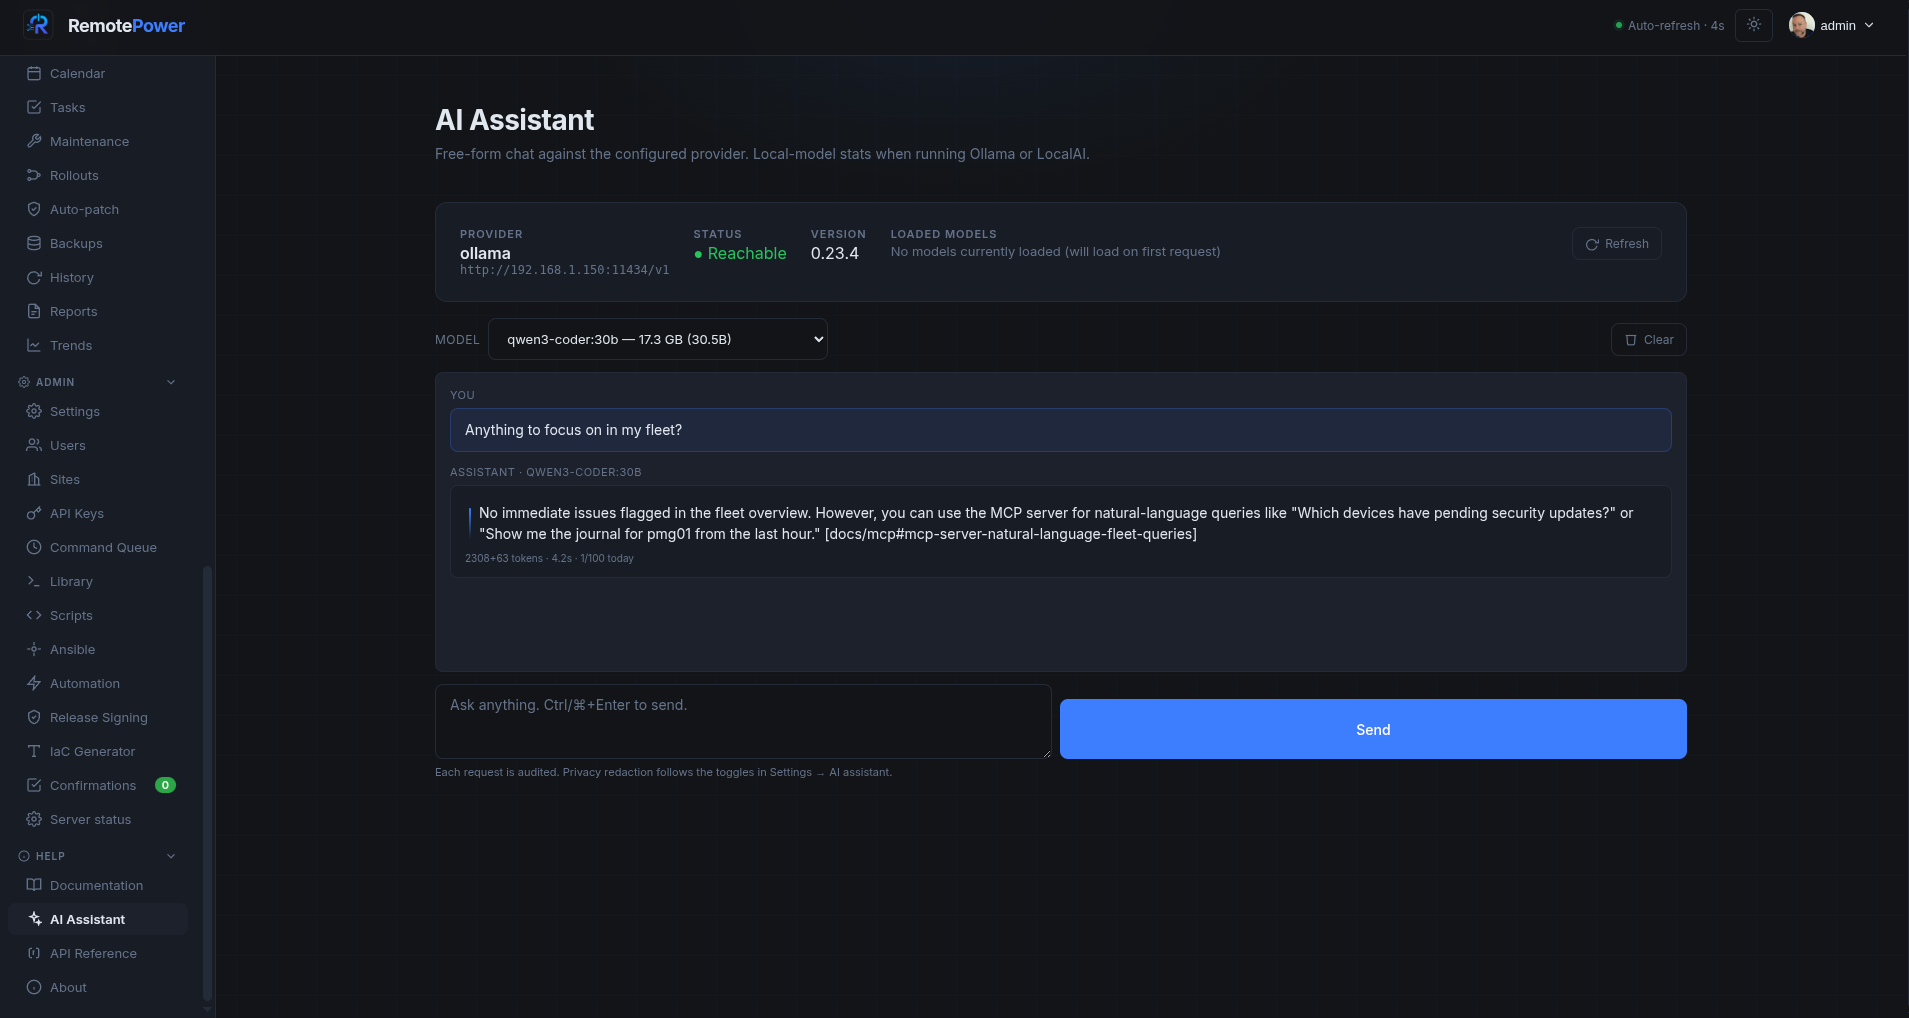
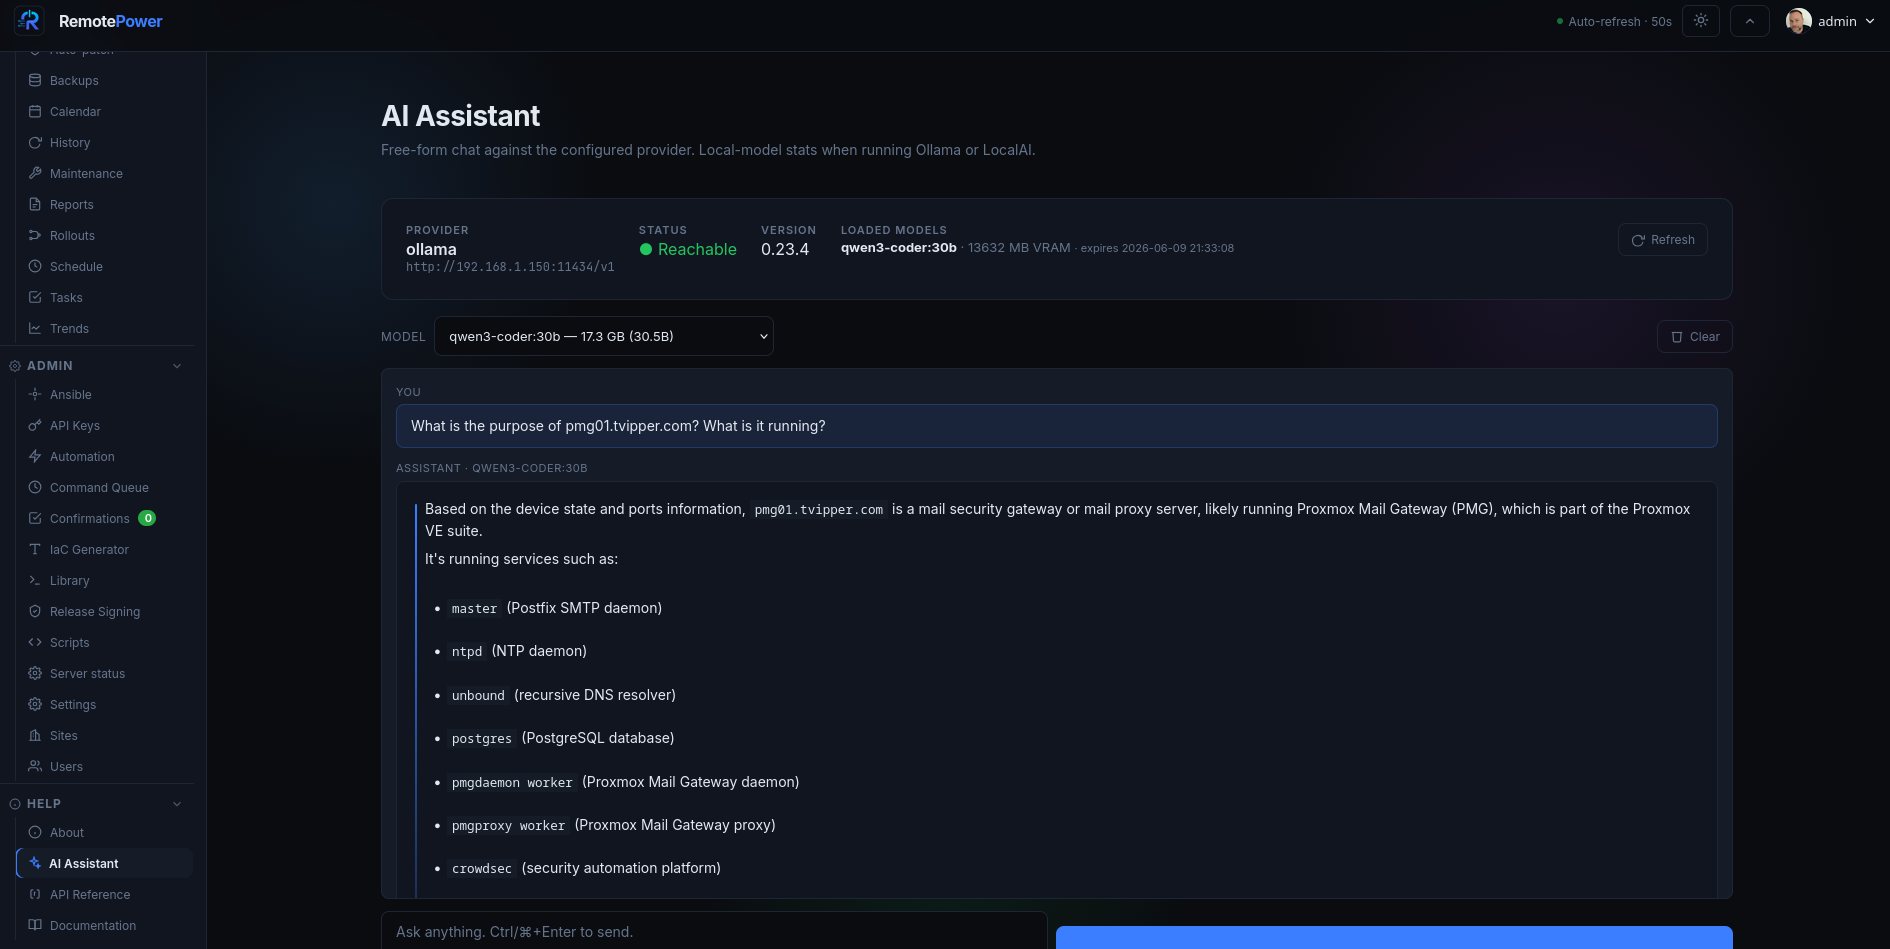
fix(v4.1.0): bind agent signals into the UI; rename codename → VisualMatters
VisualMatters (was VisibilityMatters) — finalize the bind-it-together release.

- Persist proc_names to safe_si: the server-side 'process' custom check read
  si['proc_names'] but the heartbeat sanitizer never stored it, so that check
  silently always returned 'unknown'. Now stored (deduped, bounded to 400).
- Persist last_oom_proc so the UI can show WHICH process was OOM-killed (was
  only in the event payload).
- Device drawer now surfaces the signals the Checks page used but the drawer
  never showed: FD usage, conntrack, clock sync, gateway reachability, mail
  queue, last OOM (with process); mounts table gains an Inode% column and a
  read-only (RO) badge — a silently remounted-RO fs is a data-loss outage.
- Wire the "frequently restarting hosts" table sort (tableCtl.wireSortOnly +
  sortRows) — it had data-col headers but no handler.
- Rename codename VisibilityMatters → VisualMatters across docs/in-app/tests.

Tests: TestSysinfoBinding (proc_names persisted+deduped, last_oom_proc) via
the real heartbeat path.

diff --git a/server/html/static/js/app.js b/server/html/static/js/app.js
@@ -11673,6 +11673,7 @@ async function loadDiskHealth() {
   const summary = document.getElementById('disk-health-summary');
   if (!tbody) return;
   tableCtl.wireSortOnly('disk-health-thead', 'diskhealth', () => _renderDiskHealth());
+  tableCtl.wireSortOnly('unstable-thead', 'unstablehosts', () => _renderUnstableHosts());
   tbody.innerHTML = '<tr><td colspan="6" class="hint">Loading…</td></tr>';
   try {
     _diskHealthResp = await api('GET', '/fleet/disk-health');
@@ -11692,7 +11693,12 @@ function _renderUnstableHosts() {
     tbody.innerHTML = '<tr><td colspan="3" class="c-green ta-center">No hosts restarting unusually often.</td></tr>';
     return;
   }
-  tbody.innerHTML = rows.map(r => {
+  const sorted = tableCtl.sortRows('unstablehosts', rows, r => ({
+    device: r.device,
+    restarts: r.restarts,
+    reason: r.last_boot_reason || '',
+  }));
+  tbody.innerHTML = sorted.map(r => {
     const reason = r.last_boot_reason
       ? `${escHtml(r.last_boot_reason)}${r.last_boot_reason_at ? ` <span class="hint">· ${escHtml(new Date(r.last_boot_reason_at * 1000).toLocaleString())}</span>` : ''}`
       : '<span class="hint">—</span>';
@@ -16448,6 +16454,17 @@ async function _loadAuditSection(key) {
           ['Boot reason', data?.last_boot_reason || null],
           // v3.8.0: who is logged in right now (active login sessions)
           ['Logged in', (si.logged_in||[]).length ? si.logged_in.join(', ') : null],
+          // v4.1.0 "VisualMatters": bind the remaining agent signals the Checks
+          // page already used but the drawer never showed — at-a-glance per host.
+          ['FD usage',  si.fd_percent != null ? Number(si.fd_percent).toFixed(0) + '%' : null],
+          ['Conntrack', si.conntrack_percent != null ? Number(si.conntrack_percent).toFixed(0) + '%' : null],
+          ['Clock',     si.clock ? (si.clock.synced === false ? 'NOT synced' : 'synced')
+                          + (si.clock.offset_ms != null ? ` (${si.clock.offset_ms}ms)` : '') : null],
+          ['Gateway',   si.gateway ? (si.gateway.reachable === false ? 'unreachable' : 'reachable')
+                          + (si.gateway.ip ? ` · ${si.gateway.ip}` : '') : null],
+          ['Mail queue', si.mailq != null ? `${si.mailq} queued` : null],
+          ['Last OOM',  si.last_oom_ts ? new Date(si.last_oom_ts*1000).toLocaleString()
+                          + (si.last_oom_proc ? ` (${si.last_oom_proc})` : '') : null],
         ];
         h += `<div class="sysinfo-row isl-610">` +
           pills.filter(([,v])=>v!=null).map(([l,v])=>
@@ -16489,23 +16506,28 @@ async function _loadAuditSection(key) {
           // v3.13.0: network shares (NFS/SMB/CIFS) get a badge + their server,
           // and a stalled share (no usable usage) shows "stalled" not "null%".
           h += `<div class="scrollable-table-wrap audit-scroll"><table class="isl-627">
-            <thead><tr class="c-muted"><th class="isl-628">Mount</th><th>FS</th><th>Used</th><th>Total</th><th>%</th></tr></thead>
+            <thead><tr class="c-muted"><th class="isl-628">Mount</th><th>FS</th><th>Used</th><th>Total</th><th>%</th><th class="ta-center">Inode%</th></tr></thead>
             <tbody>` + si.mounts.map(m=>{
               const netBadge = m.network ? ` <span class="pill" data-color="var(--accent)">net</span>` : '';
+              // v4.1.0: a silently remounted read-only filesystem is a data-loss
+              // outage — surface it as a badge (the agent already reports `ro`).
+              const roBadge = m.ro ? ` <span class="pill" data-color="var(--red)">RO</span>` : '';
               // Show the share server inline (not just a tooltip) so an SMB/NFS
               // mount is unmistakable: e.g. "cifs · //192.168.2.100/data".
               const fsCell = escHtml(m.fstype || '—') + (m.network && m.server ? ` · <code>${escHtml(m.server)}</code>` : '');
               if (m.stalled) {
-                return `<tr><td class="isl-629"><code>${escHtml(m.path)}</code>${netBadge}</td>
+                return `<tr><td class="isl-629"><code>${escHtml(m.path)}</code>${netBadge}${roBadge}</td>
                    <td class="fs-11 c-muted">${fsCell}</td>
-                   <td class="ta-center c-muted" colspan="3"><span class="pill" data-color="var(--red)">stalled</span></td></tr>`;
+                   <td class="ta-center c-muted" colspan="4"><span class="pill" data-color="var(--red)">stalled</span></td></tr>`;
               }
               const pct = (m.percent != null) ? m.percent : null;
-              return `<tr><td class="isl-629"><code>${escHtml(m.path)}</code>${netBadge}</td>
+              const ino = (m.inode_percent != null) ? m.inode_percent : null;
+              return `<tr><td class="isl-629"><code>${escHtml(m.path)}</code>${netBadge}${roBadge}</td>
                    <td class="fs-11 c-muted">${fsCell}</td>
                    <td class="ta-center">${m.used_gb}GB</td>
                    <td class="ta-center">${m.total_gb}GB</td>
-                   <td class="isl-630 ${pct>85?'c-red': pct>70?'c-amber': ''}">${pct!=null?pct+'%':'—'}</td></tr>`;
+                   <td class="isl-630 ${pct>85?'c-red': pct>70?'c-amber': ''}">${pct!=null?pct+'%':'—'}</td>
+                   <td class="ta-center ${ino>90?'c-red': ino>80?'c-amber': 'c-muted'}">${ino!=null?ino+'%':'—'}</td></tr>`;
             }).join('') + `</tbody></table></div>`;
         }
         // v3.13.0: per-host storage / RAID health (ZFS / mdadm / btrfs).

diff --git a/docs/Manual.html b/docs/Manual.html
@@ -14,7 +14,7 @@
 
 <div class="note"><strong>What's new in v4.1.x / v4.0.x / v3.13.x / v3.12.x / v3.11.x (older: see <code>CHANGELOG.md</code>):</strong>
 <ul class="manual-changelog-list">
-  <li><strong>v4.1.0 "VisibilityMatters" (per-host Checks, custom checks, more monitors, a composable dashboard &amp; smarter alerts):</strong> Surfaces what the fleet already knows and lets you shape how you see it; no breaking changes. <strong>Per-host Checks (CheckMK-style):</strong> a new <em>Checks</em> page under <em>Monitoring</em> renders every monitored signal on every host as OK / WARN / CRIT / UNKNOWN with output — reachability, CPU/mem/swap load, per-mount disk &amp; inode, file-descriptor and conntrack pressure, failed units, timers, drift, world-exposed ports (now respecting Exposed-page mutes), pending updates, CVEs, SMART/UPS/temperature, clock sync, gateway, OOM kills, mail-queue depth, read-only filesystems, disk-fill ETA and storage/RAID health — sortable, filterable, per-check muteable, with <em>Hide muted</em> and <em>Hide unmonitored</em> on by default (<code>GET /api/checks</code>, <code>/api/devices/&lt;id&gt;/checks</code>, <code>POST /api/checks/toggle</code>). <strong>Custom checks:</strong> define checks assignable to a host, tag, group or the whole fleet — server-evaluated <em>process running / port open / port closed</em>, and host-evaluated <em>file present/absent</em>, <em>job freshness</em> and <em>log error rate</em> (read-only, pushed to the agent and evaluated on-host); your custom monitoring scripts also surface as check rows (<code>/api/checks/custom</code>). <strong>More monitors:</strong> DNS resolution (with an expected-address assertion), ICMP latency + packet-loss thresholds, HTTP status + latency-SLA assertions, a credential-less <em>database-liveness</em> probe (PostgreSQL / MySQL / Redis — it speaks just enough of each wire protocol to confirm the server answers, with no stored password), and tag/group target fan-out for ping/ICMP/TCP. <strong>A dashboard you compose:</strong> the Home dashboard is a resizable grid of widgets chosen from a 65-widget catalog (alphabetical add-dropdown) — resize (S/M/L), reorder, show/hide, reset, align, and share a layout with a teammate via an import/export code, all saved per account; new <em>Upcoming</em> (next calendar/scheduler events), <em>Tickets</em> (open quick-ack + recently acknowledged with who/when) and actionable <em>Alerts</em> (ack / resolve / investigate inline) widgets, and the Ask-AI box is now a toggleable widget. <strong>Smarter alerts:</strong> the inbox stacks open alerts under a per-host header (worst first) with group-level Ack-all / Resolve-all, and folds a host's symptom alerts under its <code>device_offline</code> root cause so a storm reads as one incident (a flat view is one toggle away). <strong>Security &amp; reliability:</strong> a TLS 1.2 floor on every hop (satellite both ways, agent, server outbound); the SSH command builder rejects host/user values beginning with <code>-</code>; the agent's mail-queue probe backs off for an hour on a broken MTA so it can't flood the journal; and the dashboard computes its two heavy widgets only when displayed. Independently scanned with wapiti, nikto, nuclei, bandit and OWASP ZAP — clean. Service-worker cache <code>remotepower-shell-v4.1.0</code>. See <code>docs/v4.1.0.md</code>.</li>
+  <li><strong>v4.1.0 "VisualMatters" (per-host Checks, custom checks, more monitors, a composable dashboard &amp; smarter alerts):</strong> Surfaces what the fleet already knows and lets you shape how you see it; no breaking changes. <strong>Per-host Checks (CheckMK-style):</strong> a new <em>Checks</em> page under <em>Monitoring</em> renders every monitored signal on every host as OK / WARN / CRIT / UNKNOWN with output — reachability, CPU/mem/swap load, per-mount disk &amp; inode, file-descriptor and conntrack pressure, failed units, timers, drift, world-exposed ports (now respecting Exposed-page mutes), pending updates, CVEs, SMART/UPS/temperature, clock sync, gateway, OOM kills, mail-queue depth, read-only filesystems, disk-fill ETA and storage/RAID health — sortable, filterable, per-check muteable, with <em>Hide muted</em> and <em>Hide unmonitored</em> on by default (<code>GET /api/checks</code>, <code>/api/devices/&lt;id&gt;/checks</code>, <code>POST /api/checks/toggle</code>). <strong>Custom checks:</strong> define checks assignable to a host, tag, group or the whole fleet — server-evaluated <em>process running / port open / port closed</em>, and host-evaluated <em>file present/absent</em>, <em>job freshness</em> and <em>log error rate</em> (read-only, pushed to the agent and evaluated on-host); your custom monitoring scripts also surface as check rows (<code>/api/checks/custom</code>). <strong>More monitors:</strong> DNS resolution (with an expected-address assertion), ICMP latency + packet-loss thresholds, HTTP status + latency-SLA assertions, a credential-less <em>database-liveness</em> probe (PostgreSQL / MySQL / Redis — it speaks just enough of each wire protocol to confirm the server answers, with no stored password), and tag/group target fan-out for ping/ICMP/TCP. <strong>A dashboard you compose:</strong> the Home dashboard is a resizable grid of widgets chosen from a 65-widget catalog (alphabetical add-dropdown) — resize (S/M/L), reorder, show/hide, reset, align, and share a layout with a teammate via an import/export code, all saved per account; new <em>Upcoming</em> (next calendar/scheduler events), <em>Tickets</em> (open quick-ack + recently acknowledged with who/when) and actionable <em>Alerts</em> (ack / resolve / investigate inline) widgets, and the Ask-AI box is now a toggleable widget. <strong>Smarter alerts:</strong> the inbox stacks open alerts under a per-host header (worst first) with group-level Ack-all / Resolve-all, and folds a host's symptom alerts under its <code>device_offline</code> root cause so a storm reads as one incident (a flat view is one toggle away). <strong>Security &amp; reliability:</strong> a TLS 1.2 floor on every hop (satellite both ways, agent, server outbound); the SSH command builder rejects host/user values beginning with <code>-</code>; the agent's mail-queue probe backs off for an hour on a broken MTA so it can't flood the journal; and the dashboard computes its two heavy widgets only when displayed. Independently scanned with wapiti, nikto, nuclei, bandit and OWASP ZAP — clean. Service-worker cache <code>remotepower-shell-v4.1.0</code>. See <code>docs/v4.1.0.md</code>.</li>
   <li><strong>v4.0.0 (favorites, stale-image badges &amp; fleet thermals):</strong> Three operator-facing conveniences; no breaking changes, no new dependencies. <strong>Per-account sidebar favorites:</strong> hover any entry in the sidebar's collapsible groups and click the star to pin a copy under the <em>“Main”</em> label (keyboard accessible; works for real pages and the section-jump rows alike). Favorites are stored on the user record — <code>GET /api/me</code> returns them and <code>POST /api/favorites</code> saves them — so they follow you across browsers and devices; browser <code>localStorage</code> is kept only as a fast-first-paint cache and an offline/signed-out fallback. <strong>Per-container stale-image badge:</strong> the device-drawer <em>Containers</em> table shows an <em>update</em> badge when a container's running image differs from the latest registry digest, using the same digest join the fleet <em>Image Updates</em> page makes (a shared <code>_image_stale</code> primitive, so the two never disagree); locally-built and accepted/ignored images are never flagged. <strong>Fleet thermal roll-up (“hottest hosts”):</strong> a new <em>Thermal</em> page (next to Storage) with one row per host showing its hottest sensor — CPU package, chipset, or SMART disk — sorted hottest-first and flagged ≥75&nbsp;°C amber / ≥85&nbsp;°C red, backed by a read-only <code>GET /api/fleet/thermal</code> aggregation over the <code>hardware.json</code> temps the agent already reports (no agent or schema change). <strong>Operator quality-of-life batch:</strong> <em>CVE prioritization</em> joins the CISA Known-Exploited (KEV) catalog and FIRST EPSS scores onto findings (KEV badge, EPSS %, KEV column + KEV-first sort; daily refresh via the SSRF-safe fetcher, graceful CVSS fallback); <em>active session management</em> (<em>My Account → Active sessions</em> lists every signed-in browser/device and revokes any or all-others — <code>GET /api/me/sessions</code>, <code>DELETE /api/me/sessions/&lt;id&gt;</code>, raw token never leaves the server); <em>saved &amp; shareable Devices views</em> (named per-account filter snapshots, shareable by URL <code>#devices?view=</code>); <em>SSD/NVMe endurance</em> (a Wear column with projected end-of-life in the SMART table); <em>GPU monitoring</em> (nvidia-smi / rocm-smi drawer card, GPU temps feeding the Thermal page); <em>local certificate-file inventory</em> (openssl-parsed x509 expiry drawer card); <em>local account audit</em> (passwd/shadow/sudo drawer card, flagged-first, no hashes); and <em>power scheduling</em> (Suspend + Wake-on-LAN actions on the Schedule page). <strong>Visibility &amp; prediction batch:</strong> a <em>Predictive health</em> page predicts disk failure from daily SMART-counter trends (reallocated/pending sectors, SSD wear) with a projected ETA (combined with the reactive SMART verdict) and lists frequently-restarting hosts from the uptime history; a <em>Power</em> page + drawer card from a new agent UPS probe (NUT <code>upsc</code> / apcupsd) showing status/battery/load/runtime/watts, with a client-side cost/kWh energy estimate; an <em>SSH keys</em> audit page surfacing every <code>authorized_keys</code> entry fleet-wide with OpenSSH SHA256 fingerprints, weak-type flags and a reuse count; on-demand <em>container log</em> fetch from the device drawer; <em>global omnisearch</em> (the command palette now also searches open alerts and CVE findings); and a <em>custom report builder</em> (<em>Reports → Custom reports</em>: section picker + JSON/CSV + per-report schedule/recipients, <code>/api/report/definitions</code> and a <code>?sections=</code> filter on <code>/api/report/fleet</code>). <strong>Refinements:</strong> host SBOMs now also list running container images as components (<code>pkg:docker/…</code>); and a fleet <em>drift-enforcement policy</em> by tag/group (apply / correct-on-drift) on the Drift page (<code>/api/drift-policies</code>), with the per-device flag still winning. <strong>Pass A (alerts + metrics):</strong> the posture signals now raise edge-triggered alerts/webhooks — <code>disk_predict_fail</code> (predicted failure with ETA, ~6h cadence), <code>ups_on_battery</code>/<code>ups_on_line</code> (auto-resolving), <code>cert_file_expiring</code> (≤21d), <code>rogue_uid0</code> — routed through the inbox, channels and activity feed; and <em>Settings → Integrations → Metrics push</em> periodically POSTs the <code>/api/metrics</code> Prometheus exposition to a Pushgateway / remote target (<code>metrics_push</code> config, SSRF-safe, off by default). <strong>GitOps — config from Git (#27):</strong> <em>Settings → Integrations → GitOps</em> fetches a JSON manifest from a raw Git URL (SSRF-safe, size-capped, optional auth header for private repos) and reconciles the <em>drift profiles</em> (watched-config-file sets) + tag/group assignments it owns to match — config-as-code on top of the existing drift engine. It manages watched-file lists and assignments only (never command execution or file-content pushes), never touches hand-made profiles, and host enforcement still follows each device's apply/enforce opt-in; <code>GET/PUT /api/gitops</code> + <code>POST /api/gitops/sync?dry=1</code>, admin-only, off by default, every sync audited. <strong>Customizable dashboard (#22):</strong> a <em>Customize</em> button on the Home page lets each user show/hide and reorder the dashboard widgets (Fleet health, heat map, Needs attention + Recent activity, Fleet roster, Quick links); the layout is saved per account (<code>ui_prefs.dashboard</code>, validated server-side against the known widget set) and reuses the existing cards with no new data path. <strong>Interface language (i18n, #26):</strong> <em>My Account → Language</em> switches the UI between English, 中文 (Mandarin), हिन्दी (Hindi), Español and العربية (Arabic, RTL); the choice is stored on the user record (<code>GET /api/me</code> returns <code>lang</code>, <code>POST /api/me/lang</code> sets it) and synced across devices, with a <code>localStorage</code> fast-paint cache. UI-only and build-free — a self-hosted <code>i18n.js</code> translates the navigation chrome by source text, so untranslated strings fall back to English and new UI keeps working with no i18n wiring; Arabic sets <code>dir="rtl"</code>. <strong>Pass B (approval gates):</strong> the optional <em>change approval</em> (maker-checker) workflow now covers the risky actions — reboot, shutdown, package update/upgrade, agent uninstall, and container start/stop/restart are parked for a second admin on the Confirmations page instead of executing immediately (reusing the existing confirmation store and self-approval guard; off by default). <strong>Fixed:</strong> <code>cert_file_expiring</code> no longer floods every host and is now <em>opt-in</em> — the agent inventories only your own service certs (Let's Encrypt live, nginx/apache TLS, <code>/etc/ssl/*.crt</code>) and never the system CA trust bundle; the alert is off by default (<em>Settings → Security</em>), coalesces to one alert per host (soonest cert + count), filters CA-bundle paths even from older agents, and the inbox now shows which cert and how many days remain. Favorites no longer appear to “reset” on a normal refresh — the service-worker cache is versioned to <code>remotepower-shell-v4.0.0</code> (and <code>?v=</code> bumped) so a plain F5 loads the current front-end. See <code>docs/v4.0.0.md</code>.</li>
   <li><strong>v3.13.0 (bind it together, round four):</strong> A sweep that surfaces host signals the agent already collected but the UI never showed, caps overflowing panels, and hardens performance and security. <strong>Newly surfaced in the device drawer / cards:</strong> <em>Access — recent logins</em> (per-user table of recent logins and distinct source IPs, the data the <code>login_new_source</code> alert fires off); <em>Scheduled jobs / timers</em> (failed-first systemd timer inventory); <em>Pools / arrays</em> (this host's own ZFS/mdadm/btrfs storage &amp; RAID health, previously fleet-page only); the listening-ports card gains a <em>bind address</em> column and a <em>world / LAN / local</em> scope badge; the firewall card shows the active backend, rule count and <em>fingerprint</em> (the drift baseline the <code>firewall_changed</code> alert compares against); active <em>brute-force lockouts</em> show as a device-card badge; and the drawer adds <em>Disk</em>/<em>Swap</em> pressure pills. <strong>Every box fits:</strong> drawer cards and large page tables (Compliance, Pools, Ports, Mounts, Containers, SMART) cap at ~15 rows and scroll internally; two latent clip bugs (host-config dump, patch history) are fixed. <strong>Performance:</strong> version-busted static assets are cached immutably for a year (no more per-load 304 revalidations), front-end scripts load <code>defer</code>, and <code>_compute_fleet_risk()</code> is file-cached for 10s so <code>/api/home</code> and <code>/api/risk</code> share the work. <strong>Hardening:</strong> agent-supplied SCAP reports are served under a self-contained sandboxed CSP (<code>default-src 'none'; … sandbox;</code>) so stored XSS can't reach an operator's session even if the upstream CSP is loosened; OIDC id_tokens are checked for expiry, issuer and audience; and the syslog audit-forwarder resolves its target once to close a DNS-rebinding window. Service-worker cache <code>remotepower-shell-v3.13.0</code>. See <code>docs/v3.13.0.md</code>.</li>
   <li><strong>v3.12.0 (pluggable storage backend):</strong> An optional embedded <strong>SQLite</strong> backend alongside the default flat-JSON store, switchable in <strong>Settings → Advanced → Storage backend</strong>. Flat JSON rewrites a whole file on every write — on a busy fleet <code>devices.json</code> is rewritten on every heartbeat; SQLite (WAL mode, stdlib <code>sqlite3</code>, <em>no new dependencies</em>) stores hot, high-cardinality data <em>row-per-entity</em> (<code>devices</code>, <code>alerts</code>, <code>cmd_output</code>, <code>metrics</code>, and the <code>history</code>/<code>fleet_events</code>/<code>metrics_history</code> logs) so a device update writes a single row and log appends are O(1). The new backend sits behind the existing storage helpers, so every feature behaves identically — only the on-disk representation changes. Switching is <strong>in-place and reversible</strong>: the migration takes a rollback snapshot, migrates every file, verifies a full round-trip, and only then flips the active backend (a <strong>Preview</strong> dry-run shows what would move). Endpoints <code>GET /api/storage-backend/status</code> and <code>POST /api/storage-backend/migrate</code>; CLI <code>tools/migrate_storage.py --to sqlite|json</code> (<code>--dry-run</code>/<code>--verify-only</code>). Flat JSON stays the default; existing installs are unaffected until you opt in. On a network filesystem (NFS/CIFS) WAL is unsafe, so a rollback journal is used automatically — a local disk is recommended. The DB self-maintains (hourly WAL checkpoint, weekly <code>VACUUM</code> + <code>integrity_check</code>; size + last integrity on Server Status, a failed check raises a critical <code>db_integrity_failed</code> alert). <strong>Quieter posture alerts:</strong> the listening-port &amp; firewall audit (<code>new_port_detected</code> / <code>port_exposed_world</code> / <code>firewall_changed</code>) is now <strong>off by default</strong> (Settings → Security) because it is noisy on Docker hosts; you can instead keep it on and <strong>mute</strong> a specific process (e.g. <code>docker-proxy</code>) from the Exposure page or the managed list in Settings — muting resolves matching open alerts, and the Exposure page shows a banner when alerting is off but world-reachable services exist. <strong>My Account:</strong> a top-right account menu (avatar &rarr; My Account / Sign out) and a dedicated page consolidating per-user settings &mdash; profile picture (downscaled in-browser, stored under <code>DATA_DIR/avatars/</code>), your role &amp; permissions, 2FA and default SSH username (moved here from Settings &rarr; Security), and your acknowledged alerts (<code>GET /api/me</code>, <code>/api/me/avatar</code>). <strong>Acknowledge &rarr; ticket webhook:</strong> each webhook destination gains an &ldquo;also fire on alert ACK&rdquo; option (<code>webhook_urls[].on_ack</code>) that POSTs the full alert record to that destination when an operator acknowledges it &mdash; point a generic/GitHub-issue/PagerDuty destination at a ticket system to open a ticket on ack. Service-worker cache <code>remotepower-shell-v3.12.0</code>. See <code>docs/v3.12.0.md</code>.</li>

diff --git a/server/html/index.html b/server/html/index.html
@@ -2490,7 +2490,7 @@
 
         <div id="docs-container" class="isl-102">
           <details class="doc-card" open data-keywords="release notes changelog v4.1.0 visibilitymatters checks checkmk per host matrix ok warn crit unknown custom checks process port file log job dns icmp http db liveness monitor tag group dashboard widget resize reorder share catalog alert inbox group root cause fold tls 1.2 satellite mailq mute exposed">
-            <summary><strong>What's new — v4.1.0 "VisibilityMatters"</strong> — a CheckMK-style per-host Checks matrix, custom checks, more monitors, a composable 65-widget dashboard, and a host-grouped alert inbox</summary>
+            <summary><strong>What's new — v4.1.0 "VisualMatters"</strong> — a CheckMK-style per-host Checks matrix, custom checks, more monitors, a composable 65-widget dashboard, and a host-grouped alert inbox</summary>
             <div class="doc-body">
               <p>v4.1.0 surfaces what the fleet already knows and lets you shape how you see it. No breaking changes — most of it surfaces data the agent already reports. Hard-reload once after upgrading (cache <code>remotepower-shell-v4.1.0</code>).</p>
               <ul>

diff --git a/tests/test_v410.py b/tests/test_v410.py
@@ -1989,8 +1989,61 @@ class TestDashboardWidgetGrid(unittest.TestCase):
         self.assertIn('dash-w-sm', (_CGI_BIN.parent / 'html' / 'static' / 'css' / 'styles.css').read_text())
 
 
+class TestSysinfoBinding(unittest.TestCase):
+    """v4.1.0 VisualMatters: agent signals must be persisted to safe_si so the
+    server-side process custom check + the device drawer can actually use them.
+    proc_names was collected + read by _eval_custom_check but never stored →
+    the 'process' check silently always returned 'unknown'."""
+
+    def setUp(self):
+        self._tmp = Path(tempfile.mkdtemp())
+        api.DATA_DIR = self._tmp
+        api.DEVICES_FILE = self._tmp / 'devices.json'
+        api.CMDS_FILE = self._tmp / 'cmds.json'
+        api.CONFIG_FILE = self._tmp / 'config.json'
+        api.TOKENS_FILE = self._tmp / 'tokens.json'
+        api.save(api.CMDS_FILE, {})
+        api.save(api.CONFIG_FILE, {})
+        api.save(api.DEVICES_FILE, {'d1': {
+            'id': 'd1', 'name': 'web01', 'token': 'tok', 'poll_interval': 60}})
+
+    def _hb(self, sysinfo):
+        def fake_respond(status, body):
+            raise SystemExit(0)
+        api.respond = fake_respond
+        api.method = lambda: 'POST'
+        api.get_json_body = lambda: {'device_id': 'd1', 'token': 'tok',
+                                     'sysinfo': sysinfo}
+        try:
+            api.handle_heartbeat()
+        except SystemExit:
+            pass
+        except Exception:
+            return None  # needs more scaffolding — caller falls back to source
+        return (api.load(api.DEVICES_FILE)['d1'].get('sysinfo') or {})
+
+    def test_proc_names_persisted_and_deduped(self):
+        si = self._hb({'proc_names': ['nginx', 'sshd', 'postfix', 'sshd'],
+                       'uptime': '1 day'})
+        if si is None:
+            self.assertIn("safe_si['proc_names']", (_CGI_BIN / 'api.py').read_text())
+            return
+        pn = si.get('proc_names', [])
+        self.assertIn('nginx', pn)
+        self.assertIn('postfix', pn)
+        self.assertEqual(pn.count('sshd'), 1)  # deduped
+
+    def test_last_oom_proc_persisted(self):
+        si = self._hb({'last_oom_ts': 1781000000, 'last_oom_proc': 'java',
+                       'uptime': '1 day'})
+        if si is None:
+            self.assertIn("safe_si['last_oom_proc']", (_CGI_BIN / 'api.py').read_text())
+            return
+        self.assertEqual(si.get('last_oom_proc'), 'java')
+
+
 class TestVersionBumps(unittest.TestCase):
-    """v4.1.0 "VisibilityMatters" — strict version-surface pins for this release."""
+    """v4.1.0 "VisualMatters" — strict version-surface pins for this release."""
     V = '4.1.0'
     _ROOT = _CGI_BIN.parent.parent
 

diff --git a/server/cgi-bin/api.py b/server/cgi-bin/api.py
@@ -9158,6 +9158,10 @@ def handle_heartbeat():
             lo = si.get('last_oom_ts')
             if isinstance(lo, (int, float)) and lo > 0:
                 safe_si['last_oom_ts'] = int(lo)
+                # v4.1.0: keep the killed-process name too, so the UI can show
+                # *what* was OOM-killed (was only carried in the event payload).
+                if si.get('last_oom_proc'):
+                    safe_si['last_oom_proc'] = _sanitize_str(str(si['last_oom_proc']), 64)
                 prev_oom = (dev.get('sysinfo') or {}).get('last_oom_ts', 0)
                 if int(lo) > int(prev_oom or 0):
                     _oom_event_pending = ('oom_detected', {
@@ -9201,6 +9205,21 @@ def handle_heartbeat():
                         'mem':  round(float(p.get('mem') or 0), 2),
                     })
                 safe_si['top_processes'] = safe_procs
+            # v4.1.0: persist the running-process name set so the server-side
+            # 'process' custom check (_eval_custom_check reads si['proc_names'])
+            # actually has data — without this it always returned 'unknown'.
+            # Bounded + sanitized to keep the stored sysinfo small.
+            if isinstance(si.get('proc_names'), list):
+                seen_pn = set()
+                safe_pn = []
+                for n in si['proc_names']:
+                    nm = _sanitize_str(n, 64)
+                    if nm and nm not in seen_pn:
+                        seen_pn.add(nm)
+                        safe_pn.append(nm)
+                    if len(safe_pn) >= 400:
+                        break
+                safe_si['proc_names'] = safe_pn
             # persist last_boot for the drawer uptime display
             if isinstance(si.get('last_boot'), (int, float)):
                 safe_si['last_boot'] = int(si['last_boot'])

diff --git a/docs/v4.1.0.md b/docs/v4.1.0.md
@@ -1,4 +1,4 @@
-# RemotePower v4.1.0 — "VisibilityMatters"
+# RemotePower v4.1.0 — "VisualMatters"
 
 ## The story behind this release
 
@@ -13,7 +13,7 @@ of the release isn't another data source; it's making everything already there
 *visible, arrangeable, and yours*: a one-screen health matrix, a dashboard you
 compose from a catalog of widgets, a sidebar that reads as a clean hierarchy, and
 an alert inbox that tells a story instead of a wall of rows. Hence the codename —
-**VisibilityMatters**.
+**VisualMatters**.
 
 ---
 

diff --git a/CHANGELOG.md b/CHANGELOG.md
@@ -2,7 +2,7 @@
 
 All notable changes to RemotePower. Newest first.
 
-## v4.1.0 — "VisibilityMatters" — 2026-06-09
+## v4.1.0 — "VisualMatters" — 2026-06-09
 
 Surfaces what the fleet already knows and lets you shape how you see it. A new
 **CheckMK-style per-host Checks** matrix (OK/WARN/CRIT/UNKNOWN from data already

diff --git a/README.md b/README.md
@@ -213,7 +213,7 @@ The demo is reset every few hours, so feel free to break things.
 - **Bind it together — round four** *(v3.13)* — surfaces host signals the agent already collected but the UI never showed: per-device **recent logins & source IPs**, a failed-first **systemd timer** inventory, this host's own **ZFS/mdadm/btrfs storage health**, **bind address + world/LAN/local scope** on the drawer's listening-ports card, the **firewall ruleset fingerprint**, an active **brute-force lockout** badge, and Disk/Swap pressure pills. Plus every panel now caps at ~15 rows and scrolls; static assets cache immutably; and a security pass (sandboxed SCAP reports, OIDC id_token expiry/issuer/audience checks, syslog-forward DNS-rebinding fix). See **[docs/v3.13.0.md](docs/v3.13.0.md)**.
 - **Operator quality-of-life batch** *(v4.0)* — **per-account sidebar favorites** (star any entry to pin under "Main"; synced across devices via `/api/me`); a **per-container stale-image badge** in the drawer (same digest join as the fleet Image Updates page); a fleet **Thermal "hottest hosts"** page; **CVE prioritization** with CISA **KEV** + **EPSS** (rank by exploited-in-the-wild, not just CVSS); **active session management** (list & revoke your signed-in sessions); **saved & shareable Devices views**; **SSD/NVMe wear** + projected end-of-life; **GPU monitoring**; a **local certificate-file** expiry inventory; a **local account audit** (extra UID 0 / stale / locked); and **power scheduling** (scheduled Suspend / Wake-on-LAN). Plus a **Predictive-health** page (SMART-trend disk-failure ETA + frequently-restarting hosts), a **Power** page (UPS via NUT/apcupsd + energy-cost estimate), an **SSH-key audit** (fleet authorized_keys with SHA256 fingerprints), on-demand **container log** fetch, **global omnisearch** (palette also searches alerts + CVEs), a **custom report builder** (pick sections, JSON/CSV, per-report schedule), **container images in SBOMs**, a **fleet drift-enforcement policy** by tag/group, **alerts** for the new posture signals (predicted disk failure, UPS-on-battery, expiring cert files, rogue UID-0), **Prometheus metrics push** to a Pushgateway, a **customizable dashboard** (show/hide & reorder Home widgets, saved per account), **GitOps** (sync drift-config profiles from a Git manifest — config-as-code, dry-run preview), an **interface language** switch (English / Mandarin / Hindi / Spanish / Arabic, saved per account), and **change-approval** coverage extended to reboot/shutdown/update/upgrade/uninstall/container actions. Most of it surfaces data the agent already reports. See **[docs/v4.0.0.md](docs/v4.0.0.md)**.
 
-- **VisibilityMatters** *(v4.1)* — binds the telemetry the agent already reports into first-class views. A **CheckMK-style per-host Checks** page (under Monitoring) shows every signal on every host as OK / WARN / CRIT / UNKNOWN with output — sortable, filterable, per-check muteable, with *Hide muted* / *Hide unmonitored* on by default; **custom checks** (server-side process/port + agent-side file/job/log) assignable to host/tag/group, and your custom scripts surface as rows. More **active monitors**: DNS (with expected-address), ICMP latency + packet-loss, HTTP status + latency-SLA assertions, a credential-less **DB-liveness** probe (PostgreSQL/MySQL/Redis), and tag/group target fan-out. A **composable dashboard** — a 65-widget catalog you resize / reorder / show-hide / reset / align / share, with Upcoming, Tickets and actionable Alerts widgets. A **host-grouped alert inbox** that folds a host-down storm under its `device_offline` root cause. Plus a **TLS 1.2 floor** on the satellite (both hops), the agent, and server outbound HTTPS. Independently scanned (wapiti, nikto, nuclei, bandit, OWASP ZAP) — clean. See **[docs/v4.1.0.md](docs/v4.1.0.md)**.
+- **VisualMatters** *(v4.1)* — binds the telemetry the agent already reports into first-class views. A **CheckMK-style per-host Checks** page (under Monitoring) shows every signal on every host as OK / WARN / CRIT / UNKNOWN with output — sortable, filterable, per-check muteable, with *Hide muted* / *Hide unmonitored* on by default; **custom checks** (server-side process/port + agent-side file/job/log) assignable to host/tag/group, and your custom scripts surface as rows. More **active monitors**: DNS (with expected-address), ICMP latency + packet-loss, HTTP status + latency-SLA assertions, a credential-less **DB-liveness** probe (PostgreSQL/MySQL/Redis), and tag/group target fan-out. A **composable dashboard** — a 65-widget catalog you resize / reorder / show-hide / reset / align / share, with Upcoming, Tickets and actionable Alerts widgets. A **host-grouped alert inbox** that folds a host-down storm under its `device_offline` root cause. Plus a **TLS 1.2 floor** on the satellite (both hops), the agent, and server outbound HTTPS. Independently scanned (wapiti, nikto, nuclei, bandit, OWASP ZAP) — clean. See **[docs/v4.1.0.md](docs/v4.1.0.md)**.
 
 Full feature inventory: **[docs/features.md](docs/features.md)**.
 

diff --git a/docs/README.md b/docs/README.md
@@ -56,7 +56,7 @@ The full release history — every version, newest first — lives in
 
 The five most recent per-release notes are kept here:
 
-- **[v4.1.0.md](v4.1.0.md)** — "VisibilityMatters": CheckMK-style per-host
+- **[v4.1.0.md](v4.1.0.md)** — "VisualMatters": CheckMK-style per-host
  Checks, custom checks, more monitors, a composable dashboard, grouped alerts.
 - **[v4.0.0.md](v4.0.0.md)** — per-account sidebar favorites; per-container
  stale-image badge; fleet thermal roll-up ("hottest hosts").

diff --git a/docs/features.md b/docs/features.md
@@ -1082,7 +1082,7 @@ via CISA **KEV** + **EPSS**. **Customizable dashboard**, **interface language**
 views**. A security-hardening pass (session tokens hashed at rest, anchored
 webhook-host matching, SSRF-safe cloud import).
 
-## v4.1.0 additions — "VisibilityMatters"
+## v4.1.0 additions — "VisualMatters"
 
 ### Per-host Checks (CheckMK-style)
 A **Checks** page (under Monitoring) renders every monitored signal on every

diff --git a/docs/security-review-4.1.0.md b/docs/security-review-4.1.0.md
@@ -1,4 +1,4 @@
-# RemotePower — Security Review (v4.1.0 "VisibilityMatters")
+# RemotePower — Security Review (v4.1.0 "VisualMatters")
 
 Date: 2026-06-09. Scope: a focused re-review on top of the v3.8.0 → v4.0.0
 passes, covering the v4.1.0 feature work — the per-host Checks engine, custom